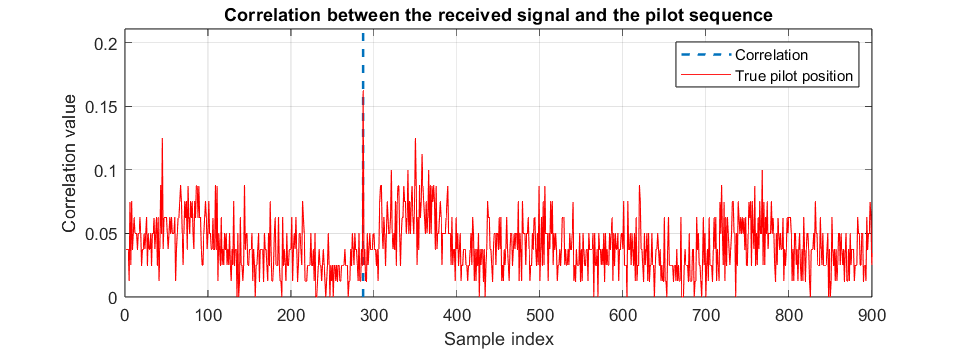
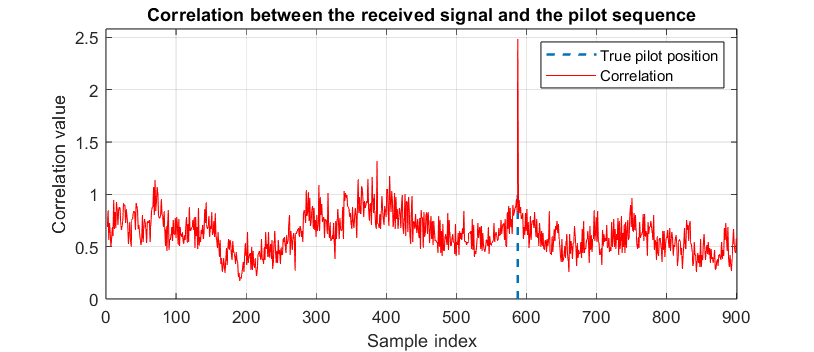
why was it split in 2 commits ???

diff --git a/src/frame_aquisition.m b/src/frame_aquisition.m
@@ -1,22 +1,20 @@
 function CFOest = frame_aquisition(y, cfg, mode)
 
-    if mode == 1
-        pilot = cfg.pilot;
-    else
-        pilot = mapping(cfg.pilot, cfg.mapping_params);
-    end
+    pilot = mapping(cfg.pilot, cfg.mapping_params);
 
     N = length(pilot);
     K = cfg.pilotK;
 
-    sumDiffCorr = zeros(1, length(y)-N+1);
+    DiffCorr = zeros(K, length(y)-N+1);
     for i = 1:length(y)-N+1
         for k = 1:K
-            sumDiffCorr(i) = sumDiffCorr(i) + abs(1/(N-k) * conj(y(i+k:i+N-1)).*pilot(k+1:N) * conj(conj(y(i:i+N-1-k)) .* pilot(1:N-k)).');
+            DiffCorr(k, i) = 1/(N-k) * conj(y(i+k:i+N-1)).*pilot(k+1:N) * conj(conj(y(i:i+N-1-k)) .* pilot(1:N-k)).';
         end
     end
 
 %%%%%%%%%%%%%%%%%%%%%%%%%%%%%%%%%%%%%%%%%%%%%%%%%%%%%%%%%%%%%%%%%%%%%%%%%%%%%
+
+    sumDiffCorr = sum(abs(DiffCorr), 1); % Sum over the K correlations
 
     [maxCorr, maxIndex] = max(sumDiffCorr);
 
@@ -26,7 +24,7 @@ function CFOest = frame_aquisition(y, cfg, mode)
         title('Correlation between the received signal and the pilot sequence');
         xlabel('Sample index');
         ylabel('Correlation value');
-        ylim([0, maxCorr+0.1]);
+        ylim([0, maxCorr+1]);
         xlim([0 length(sumDiffCorr)]);
         grid on;
         disp('Estimated pilot position: ');
@@ -36,7 +34,7 @@ function CFOest = frame_aquisition(y, cfg, mode)
         % normal mode
         denum = 2*pi/cfg.RRC_params.fs * (1:K);
         
-        CFOest = -1/K * sum(angle(sumDiffCorr)./denum); % CFO estimation
+        CFOest = -1/K * sum(angle(DiffCorr(:, maxIndex).')./denum); % CFO estimation
     end
 
 

diff --git a/frameAcqui/frame_aquisition_demo.m b/frameAcqui/frame_aquisition_demo.m
@@ -7,20 +7,23 @@ end
 
 cfg = config();
 
-x = randi([0 1], 1, cfg.pilot_bit_length); % Generate random bits
+x = randi([0 1], 1, cfg.pilot_bit_length*10); % Generate random bits
+x = mapping(x, cfg.mapping_params); % Map bits to symbols
 
-pilotPos = 0.5*cfg.pilot_bit_length + round(cfg.pilot_bit_length*9 * rand());
+pilotPos = 0.5*length(x)*9 + round(length(x)*9 * rand());
+pilotPos = 100;
 
-x(pilotPos:pilotPos+cfg.pilot_bit_length-1) = cfg.pilot; % Insert pilot bits
+mappedPilot = mapping(cfg.pilot, cfg.mapping_params); % Map pilot bits to symbols
+x(pilotPos:pilotPos+length(mappedPilot)-1) = mappedPilot; % Insert pilot bits
 
 disp('Pilot position: ');
 disp(pilotPos);
 
 figure;
-plot([pilotPos pilotPos], ylim, '--', 'LineWidth', 1.5); % Plot vertical dotted red line
+plot([pilotPos pilotPos], [0 100], '--', 'LineWidth', 1.5); % Plot vertical dotted red line
 hold on;
 
 frame_aquisition(x, cfg, 1);
 
-legend('Correlation', 'True pilot position'); % Add legend
+legend('True pilot position', 'Correlation'); % Add legend
 hold off;

diff --git a/config.m b/config.m
@@ -41,7 +41,7 @@ function cfg = config()
     cfg.phase = unifrnd(0, 2*pi);
     cfg.phase_vec = linspace(0, 2*pi*4/5, 5); % Phase offset (in radians)
 
-    cfg.pilot_bit_length = 100;
+    cfg.pilot_bit_length = 1000;
     cfg.pilotK = 8;
     cfg.pilot = randi([0 1], 1, cfg.pilot_bit_length); % Pilot bits
 
